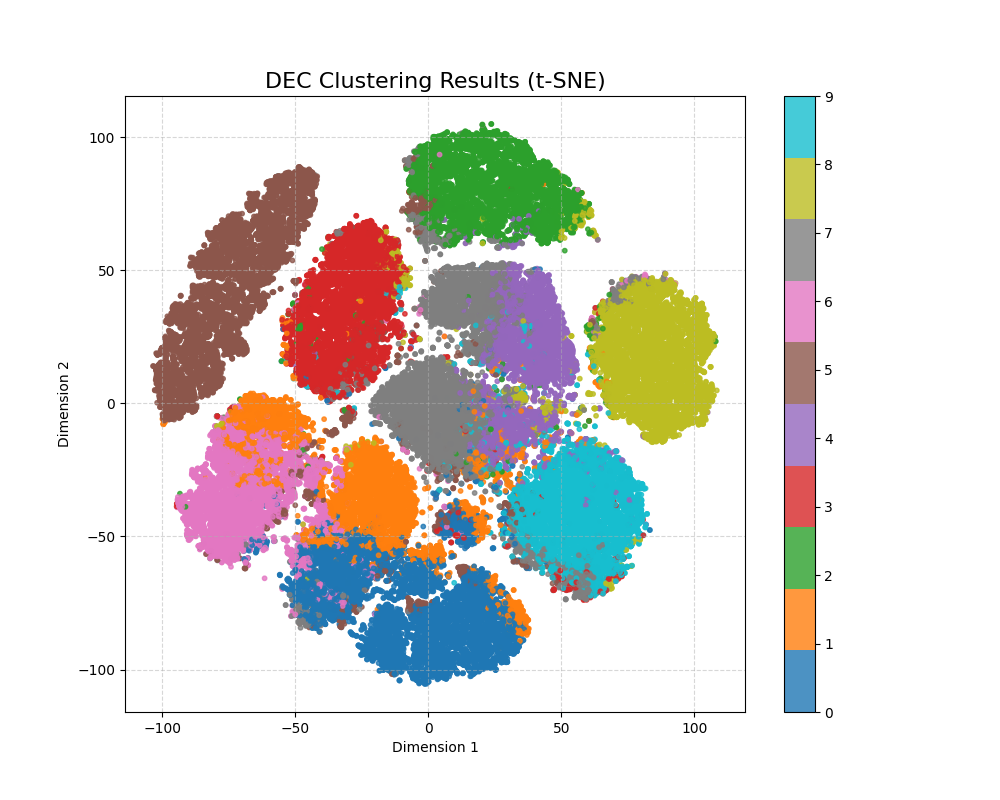
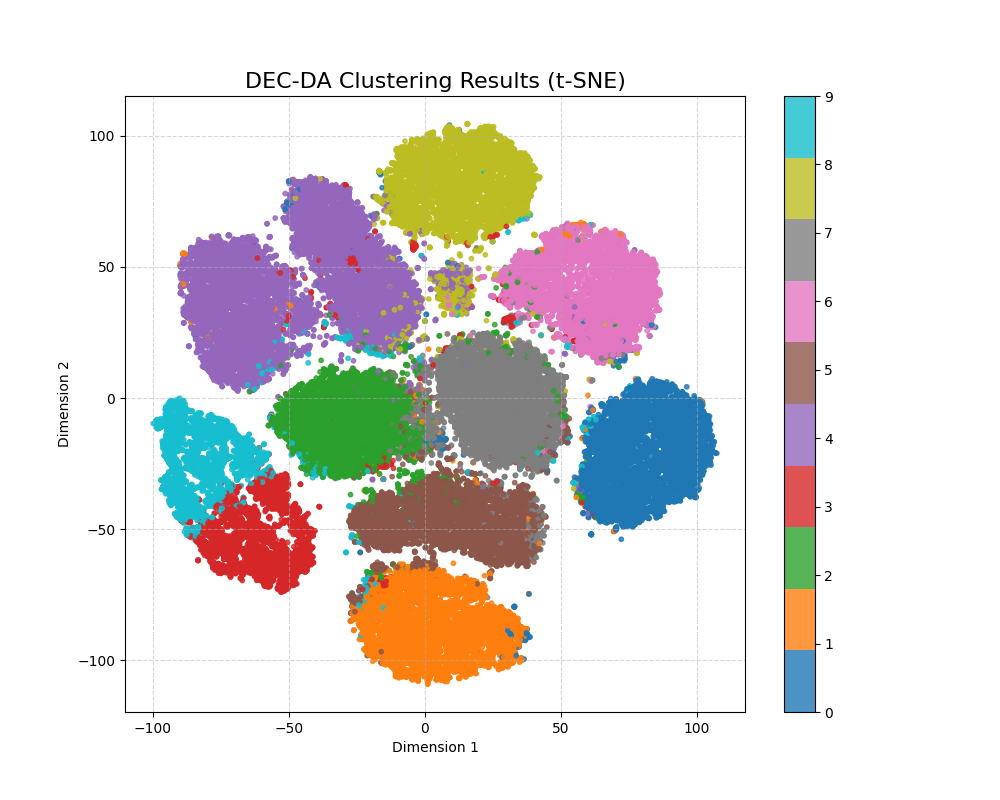
Update code with the latest changes, including feature X and fix for bug Y

diff --git a/DEC/train.py b/DEC/train.py
@@ -97,8 +97,14 @@ def train_model(dataset='mnist',
         #Train theo batch
         idx = np.random.randint(0, x.shape[0], batch_size)
         loss_batch = dec_model.train_on_batch(x=x[idx], y=p[idx])
-        loss_history.append(loss_batch)  
-
+        loss_history.append(loss_batch) 
+        """====DA option
+        augmented_data_gen = data_augmenter.flow(x, p, batch_size=batch_size)
+        for _ in range(len(x) // batch_size):
+            x_batch, p_batch = next(augmented_data_gen)
+            loss_batch = dec_model.train_on_batch(x=x_batch, y=p_batch)
+            loss_history.append(loss_batch)   
+        """
     #4
     print("=== Evaluating Clustering ===")
     q = dec_model.predict(x, verbose=0)
